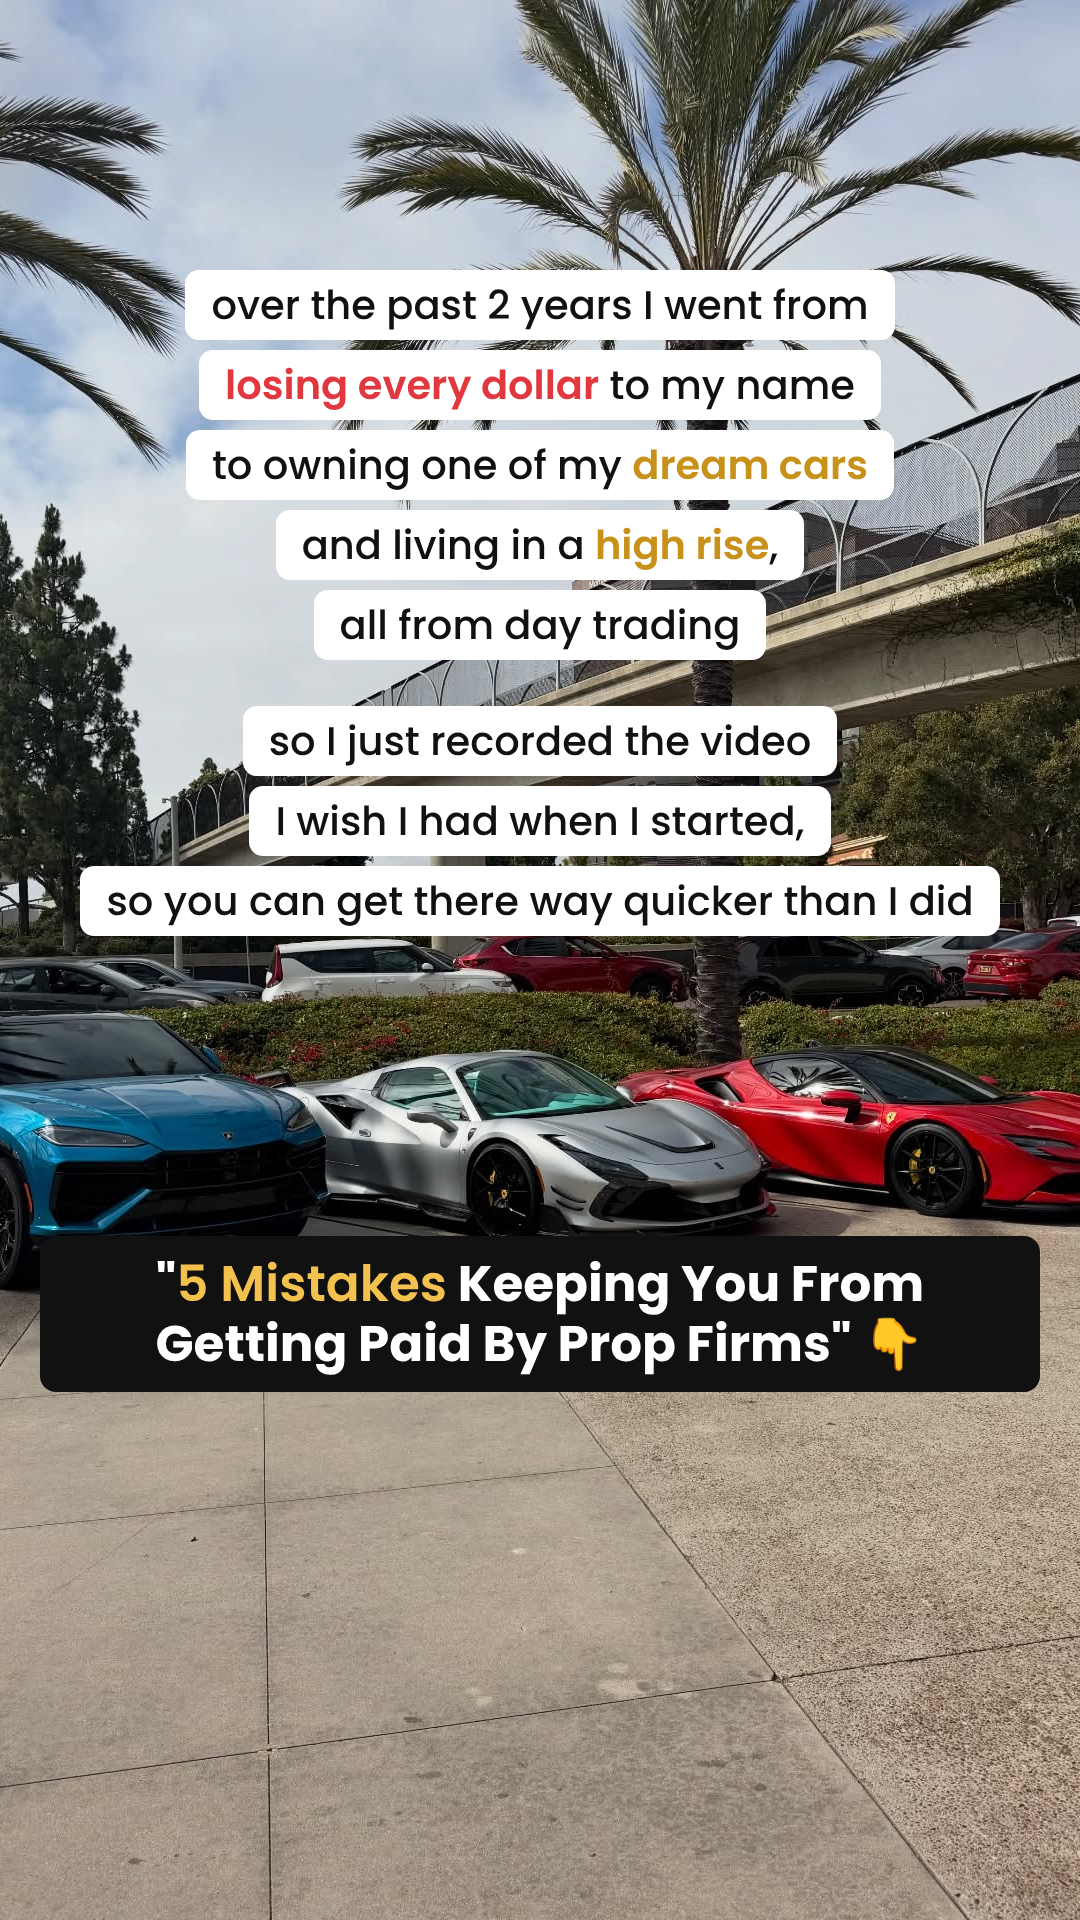
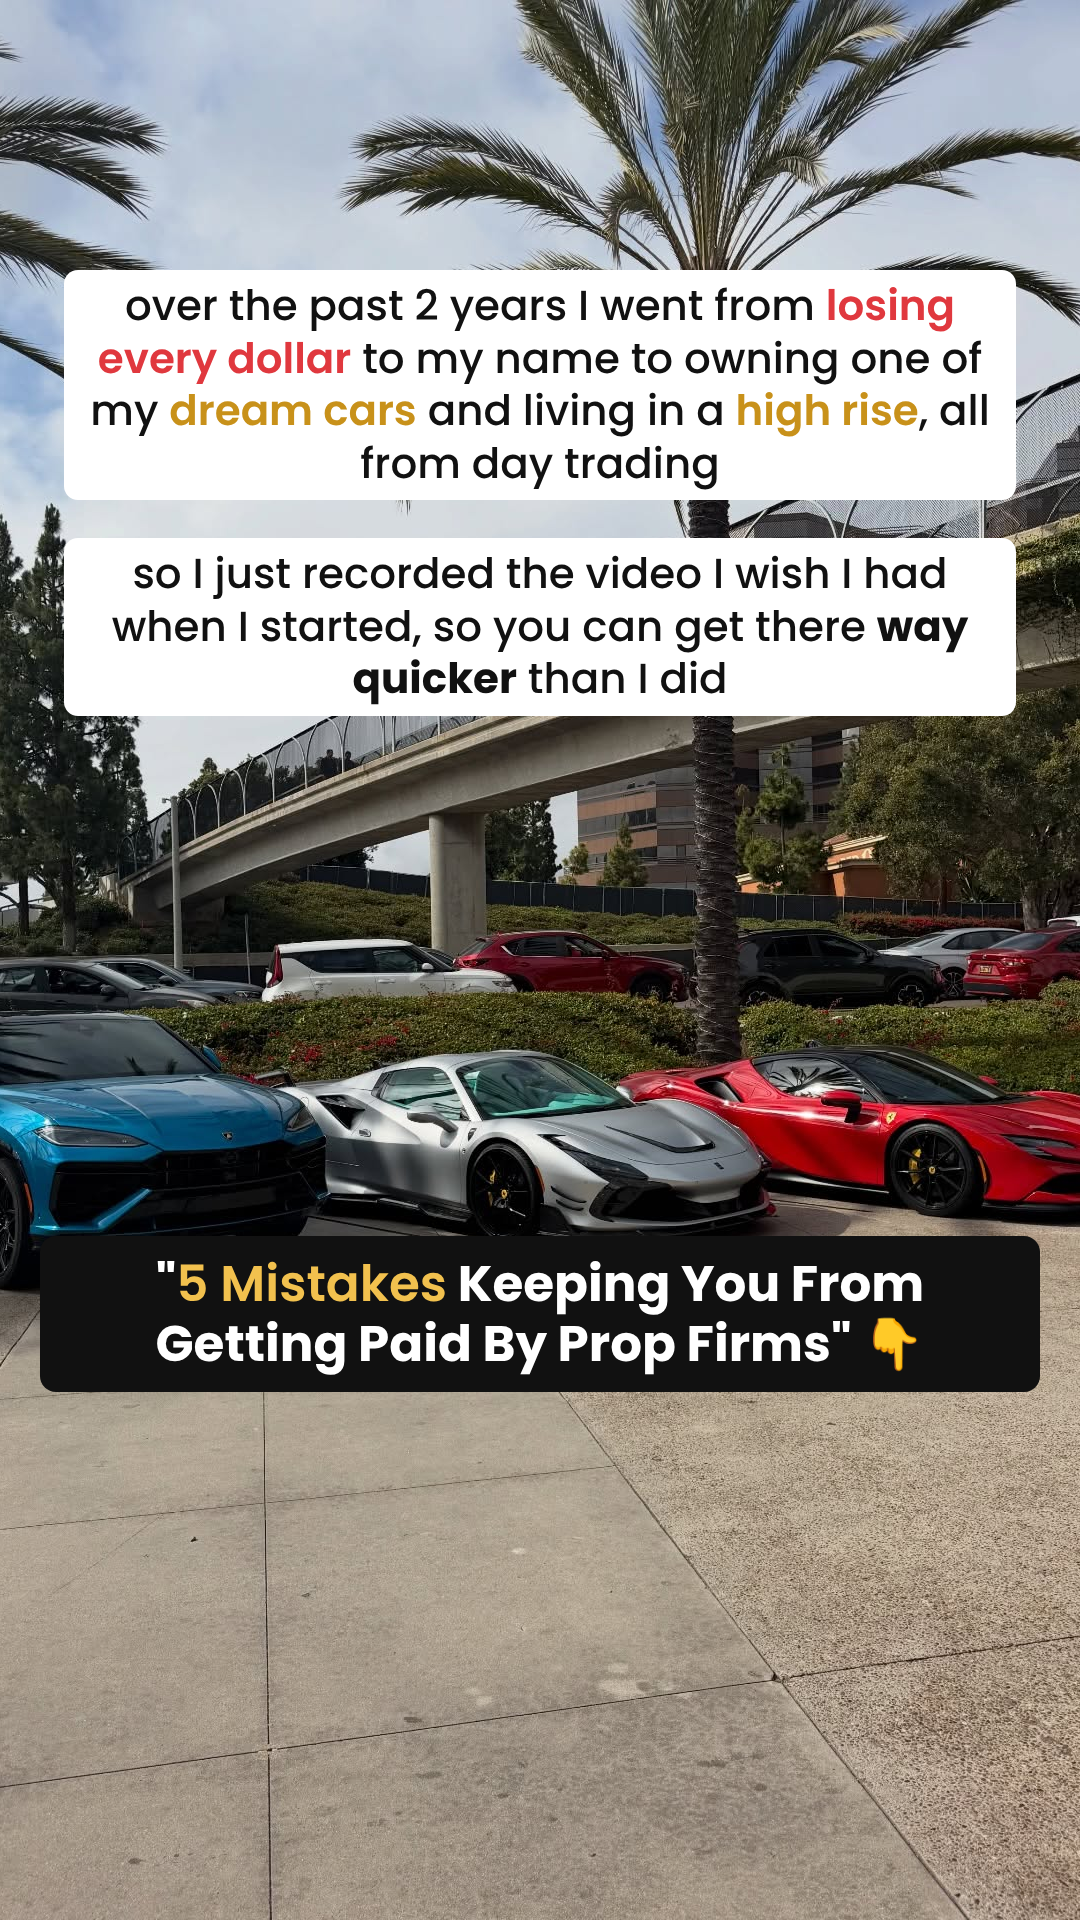
5 Mistakes: one box per sentence, sparing bold, copy fixes
Claude-Session: https://claude.ai/code/session_015aTEPXVumuzpUDhw5jFPqj

Changed region(s): [[0.0611, 0.125, 0.9472, 0.5]]

diff --git a/sequences/2026-11-23_soft_5-mistakes-video/frames/04.html b/sequences/2026-11-23_soft_5-mistakes-video/frames/04.html
@@ -1,1 +1,1 @@
-<!doctype html><html><head><meta charset='utf-8'><link href='https://fonts.googleapis.com/css2?family=Poppins:wght@500;600;700&display=swap' rel='stylesheet'><link href='style.css' rel='stylesheet'></head><body><img class='bg' src='../../../03-backgrounds-larp/backgrounds/jean_ivan_11_1779493271_3902994701779115263_45494833154.jpg' style='object-position:50% 50%'><div class='shade' style=''></div><div class='stack' style='top:270px'><span class='l' style='font-size:40px'>over the past 2 years I went from</span><span class='l' style='font-size:40px'><span class="pain">losing every dollar</span> to my name</span><span class='l' style='font-size:40px'>to owning one of my <span class="hl">dream cars</span></span><span class='l' style='font-size:40px'>and living in a <span class="hl">high rise</span>,</span><span class='l' style='font-size:40px'>all from day trading</span><div class='gap'></div><span class='l' style='font-size:40px'>so I just recorded the video</span><span class='l' style='font-size:40px'>I wish I had when I started,</span><span class='l' style='font-size:40px'>so you can get there way quicker than I did</span></div><div class='stack' style='top:1230px'><span class='title'>"<span class="hl">5 Mistakes</span> Keeping You From Getting Paid By Prop Firms" 👇</span></div></body></html>
+<!doctype html><html><head><meta charset='utf-8'><link href='https://fonts.googleapis.com/css2?family=Poppins:wght@500;600;700&display=swap' rel='stylesheet'><link href='style.css' rel='stylesheet'></head><body><img class='bg' src='../../../03-backgrounds-larp/backgrounds/jean_ivan_11_1779493271_3902994701779115263_45494833154.jpg' style='object-position:50% 50%'><div class='shade' style=''></div><div class='stack' style='top:270px'><span class='l' style='font-size:42px'>over the past 2 years I went from <span class="pain">losing every dollar</span> to my name to owning one of my <span class="hl">dream cars</span> and living in a <span class="hl">high rise</span>, all from day trading</span><div class='gap'></div><span class='l' style='font-size:42px'>so I just recorded the video I wish I had when I started, so you can get there <b>way quicker</b> than I did</span></div><div class='stack' style='top:1230px'><span class='title'>"<span class="hl">5 Mistakes</span> Keeping You From Getting Paid By Prop Firms" 👇</span></div></body></html>

diff --git a/sequences/2026-11-23_soft_5-mistakes-video/frames/03.html b/sequences/2026-11-23_soft_5-mistakes-video/frames/03.html
@@ -1,1 +1,1 @@
-<!doctype html><html><head><meta charset='utf-8'><link href='https://fonts.googleapis.com/css2?family=Poppins:wght@500;600;700&display=swap' rel='stylesheet'><link href='style.css' rel='stylesheet'></head><body><img class='bg' src='../../../03-backgrounds-larp/backgrounds/jean_ivan_11_1779493271_3902994685639333655_45494833154.jpg' style='object-position:50% 50%'><div class='shade' style=''></div><div class='stack' style='top:270px'><span class='l' style='font-size:42px'>the crazy part?? I wasn't missing info</span><div class='gap'></div><span class='l' style='font-size:42px'>I'd watched every video,</span><span class='l' style='font-size:42px'>bought every course,</span><span class='l' style='font-size:42px'>knew all the concepts</span><div class='gap'></div><span class='l' style='font-size:42px'>I was just doing <span class="hl">5 things</span> <span class="pain">wrong</span></span><span class='l' style='font-size:42px'>every single day</span></div><div class='stack' style='bottom:330px'><span class='l' style='font-size:46px'>and I bet you're doing</span><span class='l' style='font-size:46px'>at least 3 of them rn...</span></div></body></html>
+<!doctype html><html><head><meta charset='utf-8'><link href='https://fonts.googleapis.com/css2?family=Poppins:wght@500;600;700&display=swap' rel='stylesheet'><link href='style.css' rel='stylesheet'></head><body><img class='bg' src='../../../03-backgrounds-larp/backgrounds/jean_ivan_11_1779493271_3902994685639333655_45494833154.jpg' style='object-position:50% 50%'><div class='shade' style=''></div><div class='stack' style='top:280px'><span class='l' style='font-size:44px'>the crazy part?? I wasn't missing info</span><div class='gap'></div><span class='l' style='font-size:44px'>I watched every video, bought every course and knew all the concepts</span><div class='gap'></div><span class='l' style='font-size:44px'>I was just doing <b>5 things wrong</b> every single day</span></div><div class='stack' style='bottom:340px'><span class='l' style='font-size:46px'>and I bet you're doing <b>at least 3 of them</b> rn...</span></div></body></html>

diff --git a/sequences/2026-11-23_soft_5-mistakes-video/frames/02.html b/sequences/2026-11-23_soft_5-mistakes-video/frames/02.html
@@ -1,1 +1,1 @@
-<!doctype html><html><head><meta charset='utf-8'><link href='https://fonts.googleapis.com/css2?family=Poppins:wght@500;600;700&display=swap' rel='stylesheet'><link href='style.css' rel='stylesheet'></head><body><img class='bg' src='../../../03-backgrounds-larp/backgrounds/jean_ivan_11_1783644862_3937820383109397696_45494833154.jpg' style='object-position:50% 50%'><div class='shade' style=''></div><div class='stack' style='top:290px'><span class='l' style='font-size:44px'>then I put <span class="hl">$4,000</span> on a live account.</span><span class='l' style='font-size:44px'>every dollar I had</span><div class='gap'></div><span class='l' style='font-size:44px'>and <span class="pain">lost it all</span> in one session...</span><div class='gap'></div><span class='l' style='font-size:44px'>my mom looked at me like</span><span class='l' style='font-size:44px'>"Ivan. quit. go to college."</span><div class='gap'></div><span class='l' style='font-size:44px'>but i believed in trading</span><span class='l' style='font-size:44px'>so I said no.</span></div></body></html>
+<!doctype html><html><head><meta charset='utf-8'><link href='https://fonts.googleapis.com/css2?family=Poppins:wght@500;600;700&display=swap' rel='stylesheet'><link href='style.css' rel='stylesheet'></head><body><img class='bg' src='../../../03-backgrounds-larp/backgrounds/jean_ivan_11_1783644862_3937820383109397696_45494833154.jpg' style='object-position:50% 50%'><div class='shade' style=''></div><div class='stack' style='top:290px'><span class='l' style='font-size:44px'>then I put <span class="hl">$4,000</span> on a live account. <b>every dollar I had</b></span><div class='gap'></div><span class='l' style='font-size:44px'>and <span class="pain">lost it all</span> in one session...</span><div class='gap'></div><span class='l' style='font-size:44px'>my mom looked at me and said "Ivan, quit. go to college."</span><div class='gap'></div><span class='l' style='font-size:44px'>but I believed in trading so <b>I said no.</b></span></div></body></html>

diff --git a/sequences/2026-11-23_soft_5-mistakes-video/frames/01.html b/sequences/2026-11-23_soft_5-mistakes-video/frames/01.html
@@ -1,1 +1,1 @@
-<!doctype html><html><head><meta charset='utf-8'><link href='https://fonts.googleapis.com/css2?family=Poppins:wght@500;600;700&display=swap' rel='stylesheet'><link href='style.css' rel='stylesheet'></head><body><img class='bg' src='../../2026-11-11_highlight_about-me/assets/popeyes.jpg' style='object-position:50% 60%'><div class='shade' style=''></div><div class='stack' style='top:290px'><span class='l' style='font-size:46px'>2 years ago I was doing DoorDash</span><span class='l' style='font-size:46px'>till midnight just to pay for</span><span class='l' style='font-size:46px'>prop firm challenges 😭</span><div class='gap'></div><span class='l' style='font-size:46px'>and <span class="pain">blowing</span> literally every single one</span></div></body></html>
+<!doctype html><html><head><meta charset='utf-8'><link href='https://fonts.googleapis.com/css2?family=Poppins:wght@500;600;700&display=swap' rel='stylesheet'><link href='style.css' rel='stylesheet'></head><body><img class='bg' src='../../2026-11-11_highlight_about-me/assets/popeyes.jpg' style='object-position:50% 60%'><div class='shade' style=''></div><div class='stack' style='top:290px'><span class='l' style='font-size:46px'>2 years ago I was doing DoorDash till midnight just to pay for prop firm challenges 😭</span><div class='gap'></div><span class='l' style='font-size:46px'>and <span class="pain">blowing</span> literally <b>every single one</b></span></div></body></html>

diff --git a/sequences/2026-11-23_soft_5-mistakes-video/frames/style.css b/sequences/2026-11-23_soft_5-mistakes-video/frames/style.css
@@ -2,8 +2,9 @@ html,body{margin:0;width:1080px;height:1920px;overflow:hidden;background:#000;po
 .bg{position:absolute;inset:0;width:1080px;height:1920px;object-fit:cover}
 .shade{position:absolute;inset:0}
 .stack{position:absolute;left:0;right:0;display:flex;flex-direction:column;align-items:center;gap:10px;padding:0 40px;z-index:2}
-.l{background:#fff;color:#111;font:500 44px/1.25 'Poppins',sans-serif;padding:10px 26px;border-radius:14px;text-align:center;max-width:1000px}
-.gap{height:26px}
+.l{background:#fff;color:#111;font:500 44px/1.25 'Poppins',sans-serif;padding:10px 26px;border-radius:14px;text-align:center;max-width:900px}
+.gap{height:18px}
+b{font-weight:700}
 .title{background:#111;color:#fff;font:700 50px/1.2 'Poppins',sans-serif;padding:18px 30px;border-radius:16px;text-align:center;max-width:960px;margin-top:6px}
 .hl{color:#c8911a;font-weight:600}.title .hl{color:#f2c14e}
 .pain{color:#e0383e;font-weight:600}

diff --git a/brand.md b/brand.md
@@ -56,3 +56,4 @@ Example: 2026-11-12 · soft · "free-guide" sequence: 38 DMs. Poll on frame 1 wo
 - 2026-11-11 · About Me v5: user wants **~80% of story frames full-screen** (photo or screenshot), and the rest as a card **over a LARP background**, not a plain dark background. Keep box captions to one line each and off faces. Re-extract video stills at full resolution for full-screen use.
 - 2026-11-23 · soft · 5 Mistakes video: user rejected old selfie/laptop/high-rise backgrounds for stories 2–4 and asked for **LARP car shots** instead. Kept the Popeyes DoorDash photo on story 1. Default to car/lifestyle LARP behind text-heavy story frames.
 - 2026-11-23 · 5 Mistakes: don't fill a sequence with random car pics. Use **successful Jean in the shot** (elevator, lobby, pier, restaurant) for most LARP frames, with at most 1 car-only frame.
+- 2026-11-23 · 5 Mistakes: **one box per full sentence** (let it wrap inside the box). Don't chop sentences into many tiny boxes. Use bold sparingly on 1 key phrase per story. Grammar: "I watched" not "I'd watched".
